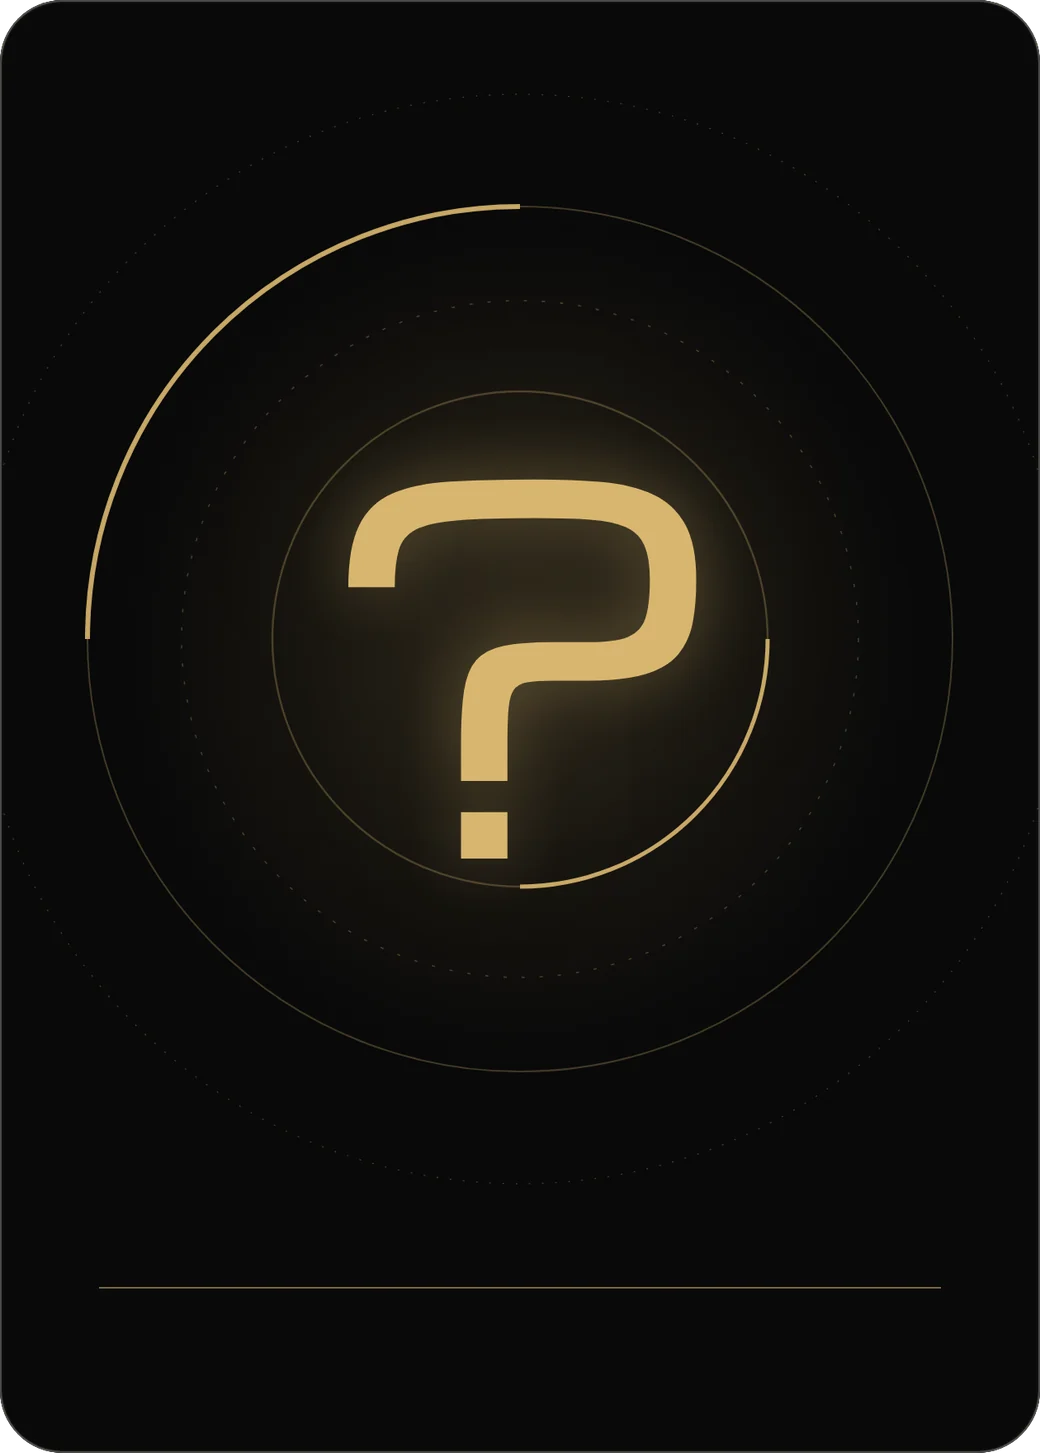
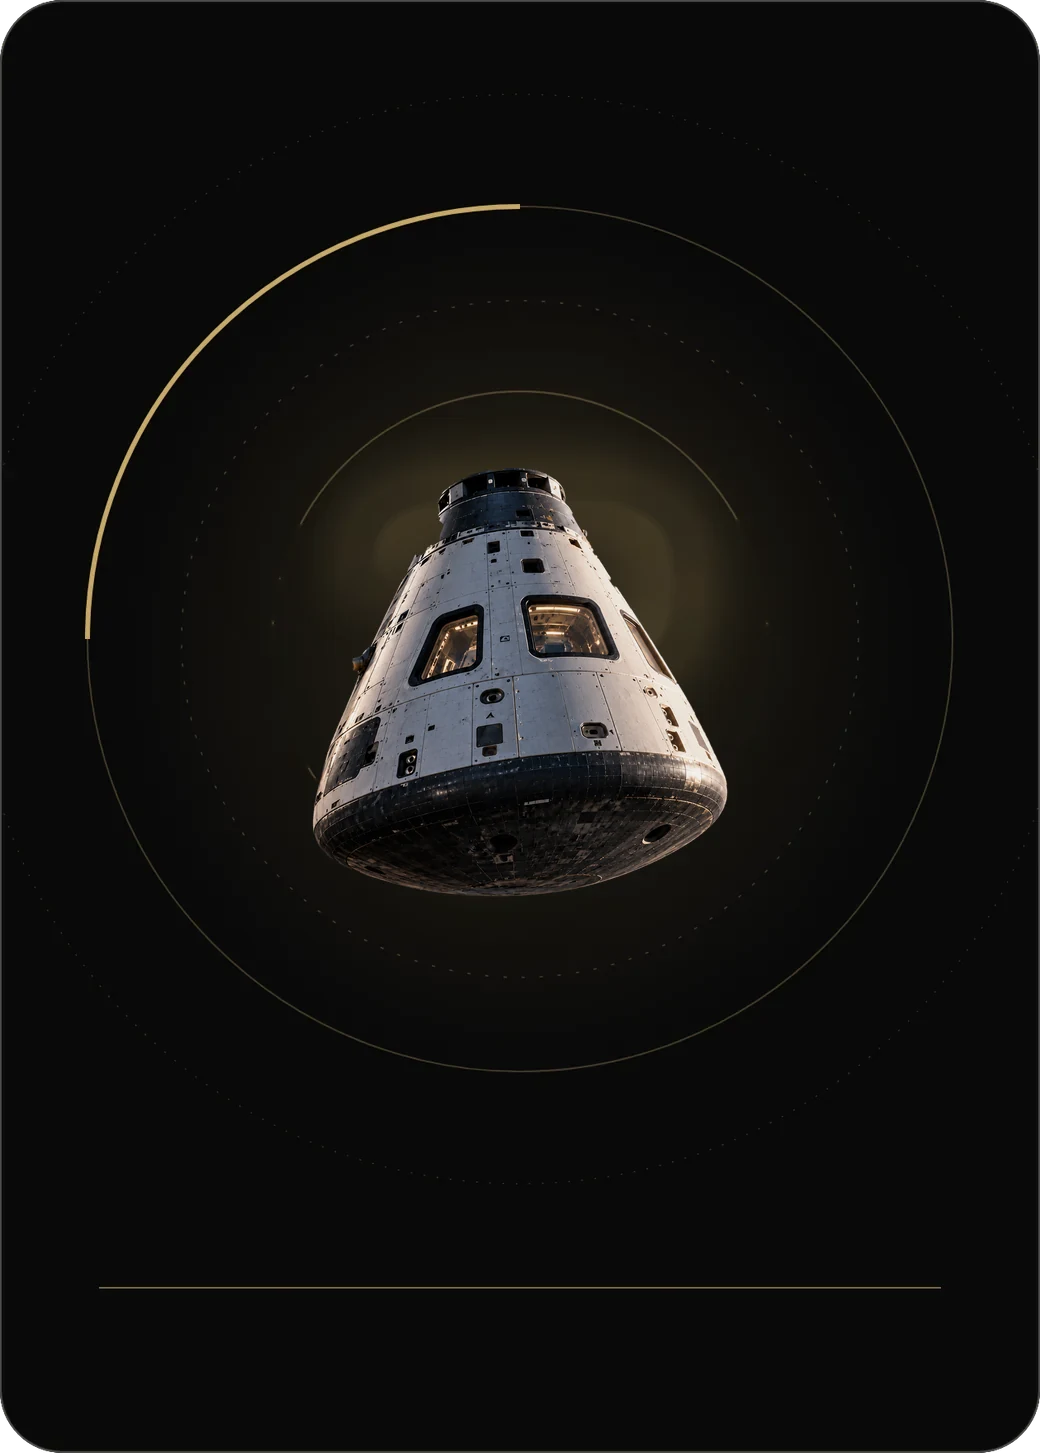
feat(stellar): a return capsule comes out of the star and splits open; no question mark, no blades
- The reveal's pod is now a cut-out return capsule (public/cards/capsule.webp): it leaves the core, a seam glows along the heat-shield rim, the body lifts away and the shield drops as the card comes out; the glow follows the cut
- The capsule sheet shows the same capsule lit in the tier's colour in place of the face-down card and the two energy blades
- The face-down card's question mark is replaced by the capsule (sealed.webp?v=capsule1)

Claude-Session: https://claude.ai/code/session_015vgwBKgGvCofmiSwVtod7G

Changed region(s): [[0.2769, 0.3097, 0.7385, 0.6194]]

diff --git a/src/styles/stellar-supernova.css b/src/styles/stellar-supernova.css
@@ -144,40 +144,38 @@
    and the card comes out of it. The engine drives the custom properties. ── */
 .sn-cap {
   --cs: 0.06; --cz: 0deg; --cx: 0px; --cr: 0; --co: 0; --cf: 0; --ch: 0.4;
-  position: absolute; left: 50%; top: 50%; width: 54%; aspect-ratio: 100 / 160; z-index: 0;
-  max-width: 190px; opacity: 0; pointer-events: none;
+  position: absolute; left: 50%; top: 50%; width: 72%; aspect-ratio: 695 / 720; z-index: 0;
+  max-width: 300px; opacity: 0; pointer-events: none;
   translate: calc(-50% + var(--cx)) -50%; transform: scale(var(--cs)) rotate(var(--cz)); will-change: transform, opacity;
 }
 .sn-cap__glow {
-  position: absolute; inset: -55% -80%; border-radius: 50%;
+  position: absolute; inset: -40% -55%; border-radius: 50%;
   background: radial-gradient(closest-side, color-mix(in srgb, var(--sn-tone) 55%, #fff4e0), color-mix(in srgb, var(--sn-tone) 30%, transparent) 38%, transparent 72%);
-  opacity: calc(var(--ch) * 0.55 + var(--co) * (1 - var(--cf)) * 0.9); filter: blur(6px);
+  opacity: calc(var(--ch) * 0.45 + var(--co) * (1 - var(--cf)) * 0.9); filter: blur(6px);
 }
-.sn-cap__half { position: absolute; inset: 0; will-change: transform; }
-.sn-cap__half--top { clip-path: inset(-2% -2% 50% -2%); transform: translateY(calc(var(--co) * -62%)) translateX(calc(var(--co) * -14%)) rotate(calc(var(--co) * -32deg)); }
-.sn-cap__half--bot { clip-path: inset(50% -2% -2% -2%); transform: translateY(calc(var(--co) * 58%)) translateX(calc(var(--co) * 12%)) rotate(calc(var(--co) * 24deg)); }
-.sn-cap__shell {
-  position: absolute; inset: 0; border-radius: 999px; overflow: hidden;
-  background:
-    /* the seam ring, lit from inside */
-    linear-gradient(180deg, transparent 47.4%, color-mix(in srgb, var(--sn-tone) 60%, #fff) 48.8%, #fff 50%, color-mix(in srgb, var(--sn-tone) 60%, #fff) 51.2%, transparent 52.6%),
-    /* machined bands near each end */
-    linear-gradient(180deg, transparent 18%, #ffffff26 18.5%, #00000080 19.3%, transparent 20%, transparent 80%, #00000080 80.7%, #ffffff26 81.5%, transparent 82%),
-    /* the ends rounding away from the light */
-    radial-gradient(70% 22% at 50% 4%, #ffffff30, transparent 70%),
-    radial-gradient(80% 26% at 50% 100%, #000000b0, transparent 75%),
-    /* a polished cylinder: dark limbs, a hot streak, a soft second light from the core */
-    linear-gradient(90deg, #030305 0%, #1d1d23 12%, #4c4c56 24%, #e9e7ef 29%, #6a6a75 33%, #2a2a31 46%, #17171c 64%, color-mix(in srgb, var(--sn-tone) 30%, #2a2a31) 84%, color-mix(in srgb, var(--sn-tone) 45%, #444) 90%, #050507 100%);
-  box-shadow:
-    inset 0 0 0 1.5px color-mix(in srgb, var(--sn-tone) 55%, #ffffff50),
-    inset 0 0 22px color-mix(in srgb, var(--sn-tone) calc(var(--ch) * 45%), transparent),
-    0 0 calc(12px + var(--ch) * 30px) color-mix(in srgb, var(--sn-tone) 60%, transparent);
+.sn-cap__half {
+  position: absolute; inset: 0; will-change: transform;
+  /* Lit by the star behind it: a rim in the tier's colour, brighter as it cracks. On the half, so the glow follows the cut. */
+  filter: drop-shadow(0 0 calc(4px + var(--ch) * 14px) color-mix(in srgb, var(--sn-tone) 70%, transparent));
 }
-/* The lens on the seam: the pod's eye, burning brighter as it cracks. */
-.sn-cap__half--top .sn-cap__shell::after {
-  content: ''; position: absolute; left: 50%; top: 50%; width: 22%; aspect-ratio: 1; translate: -50% -50%; border-radius: 50%;
-  background: radial-gradient(circle, #fff 0 18%, color-mix(in srgb, var(--sn-tone) 70%, #fff) 30%, var(--sn-tone) 52%, #050507 72%);
-  box-shadow: 0 0 0 2px #0a0a0d, 0 0 0 3.5px color-mix(in srgb, var(--sn-tone) 60%, #fff), 0 0 calc(10px + var(--ch) * 26px) var(--sn-tone);
+/* The body lifts away up and to the left; the heat shield falls the other way. */
+.sn-cap__half--top .sn-cap__img {
+  clip-path: polygon(-5% -5%, 105% -5%, 105% 75%, 100% 75%, 87.5% 71.3%, 75% 68.8%, 62.5% 67.5%, 50% 67.2%, 37.5% 68.2%, 25% 70.3%, 12.5% 73.6%, 0 78%, -5% 78%);
+}
+.sn-cap__half--top {
+  transform-origin: 50% 70%;
+  transform: translate(calc(var(--co) * -16%), calc(var(--co) * -58%)) rotate(calc(var(--co) * -22deg));
+}
+.sn-cap__half--bot .sn-cap__img {
+  clip-path: polygon(-5% 78%, 0 78%, 12.5% 73.6%, 25% 70.3%, 37.5% 68.2%, 50% 67.2%, 62.5% 67.5%, 75% 68.8%, 87.5% 71.3%, 100% 75%, 105% 75%, 105% 105%, -5% 105%);
+}
+.sn-cap__half--bot {
+  transform-origin: 50% 70%;
+  transform: translate(calc(var(--co) * 14%), calc(var(--co) * 62%)) rotate(calc(var(--co) * 16deg));
+}
+.sn-cap__img {
+  display: block; width: 100%; height: 100%; object-fit: contain;
+  filter: brightness(calc(0.85 + var(--ch) * 0.25));
 }
 .sn-cap__cracks { position: absolute; inset: 0; width: 100%; height: 100%; overflow: visible; }
 .sn-cap__cracks path {
@@ -186,7 +184,7 @@
   filter: drop-shadow(0 0 3px var(--sn-tone)) drop-shadow(0 0 8px var(--sn-tone));
 }
 .sn-cap__beam {
-  position: absolute; left: -90%; right: -90%; top: 50%; height: 34%; translate: 0 -50%; border-radius: 50%;
+  position: absolute; left: -90%; right: -90%; top: 69%; height: 34%; translate: 0 -50%; border-radius: 50%;
   background: radial-gradient(closest-side, #fffaf0, color-mix(in srgb, var(--sn-tone) 60%, #fff) 35%, transparent 75%);
   transform: scaleY(calc(0.05 + var(--co) * 1.6)) scaleX(calc(0.6 + var(--co) * 0.6)); opacity: calc(min(1, var(--co) * 4) * (1 - var(--cf)));
   mix-blend-mode: screen; filter: blur(2px);

diff --git a/src/styles/stellar-theme.css b/src/styles/stellar-theme.css
@@ -881,50 +881,23 @@ html:has(.stellar) #stellar-main { padding-top: 0; padding-bottom: 0; }
 @media (max-width: 959px) { .sd-cardhero__plate { overflow-x: clip; } }
 
 /* ── A sealed capsule ─────────────────────────────────────────── */
-/* The card face down, two energy blades lit in an X behind it in the tier's colour:
-   --tier is the blade, white is its core. The blades light from the hilt up, one
-   after the other, then hum. */
+/* A return capsule, lit from behind in the tier's colour; it arrives, then drifts. */
 .sd-tier__capsule { --h: 140px; position: relative; display: grid; place-items: center; height: var(--h); width: calc(var(--h) * 1.3); flex: none; }
-.sd-tier__sealed {
-  position: relative; z-index: 2; display: block; height: calc(var(--h) * 0.84); width: calc(var(--h) * 0.84 * 520 / 726); max-width: none; border-radius: 4.76% / 3.41%;
-  box-shadow: 0 18px 40px rgba(0, 0, 0, 0.7), 0 0 0 1px rgba(255, 240, 210, 0.12), 0 0 46px -10px color-mix(in srgb, var(--tier) 70%, transparent);
+.sd-tier__glow {
+  position: absolute; inset: 4% 8%; border-radius: 50%;
+  background: radial-gradient(closest-side, color-mix(in srgb, var(--tier) 55%, #fff4e0), color-mix(in srgb, var(--tier) 28%, transparent) 45%, transparent 75%);
+  opacity: 0.7; filter: blur(10px);
 }
-.sd-tier__saber {
-  position: absolute; z-index: 1; left: 50%; bottom: calc(var(--h) * 0.02); width: calc(var(--h) * 0.045); height: calc(var(--h) * 1.05);
-  margin-left: calc(var(--h) * -0.025); transform-origin: 50% 100%;
-}
-.sd-tier__saber--l { rotate: -42deg; }
-.sd-tier__saber--r { rotate: 42deg; }
-.sd-tier__blade {
-  position: absolute; left: 12%; right: 12%; top: 0; bottom: 22%; border-radius: 999px 999px 3px 3px;
-  background: linear-gradient(90deg, color-mix(in srgb, var(--tier) 70%, #fff), #fff 30% 70%, color-mix(in srgb, var(--tier) 70%, #fff));
-  box-shadow:
-    0 0 4px 1px #fff,
-    0 0 10px 3px var(--tier),
-    0 0 24px 8px color-mix(in srgb, var(--tier) 75%, transparent),
-    0 0 60px 18px color-mix(in srgb, var(--tier) 35%, transparent);
-  transform-origin: 50% 100%;
-}
-.sd-tier__hilt {
-  position: absolute; left: -12%; right: -12%; bottom: 0; height: 23%; border-radius: 3px 3px 5px 5px;
-  background:
-    linear-gradient(180deg, #e9e6df 0 9%, #3c3c3c 9% 13%, transparent 13%),
-    repeating-linear-gradient(180deg, #151515 0 3px, #575757 3px 5px) 0 34% / 100% 40% no-repeat,
-    linear-gradient(90deg, #6d6d6d, #d8d8d8 35%, #8a8a8a 60%, #3a3a3a);
-  box-shadow: inset 0 -3px 0 #222, 0 4px 10px rgba(0, 0, 0, 0.6);
-}
-.sd-tier__hilt::after {
-  content: ''; position: absolute; left: 50%; top: 18%; width: 34%; aspect-ratio: 1; translate: -50% 0; border-radius: 2px;
-  background: color-mix(in srgb, var(--tier) 60%, #c0392b); box-shadow: 0 0 4px var(--tier);
+.sd-tier__pod {
+  position: relative; display: block; height: calc(var(--h) * 0.92); width: auto; max-width: none;
+  filter: drop-shadow(0 18px 26px rgba(0, 0, 0, 0.7)) drop-shadow(0 0 14px color-mix(in srgb, var(--tier) 55%, transparent));
 }
 @media (prefers-reduced-motion: no-preference) {
-  .sd-tier__blade { animation: sd-ignite 520ms cubic-bezier(0.2, 0.9, 0.25, 1) both, sd-hum 2.6s ease-in-out 700ms infinite; }
-  .sd-tier__saber--r .sd-tier__blade { animation-delay: 180ms, 880ms; }
-  .sd-tier__sealed { animation: sd-tier-arrive 700ms var(--sd-ease) both; }
+  .sd-tier__pod { animation: sd-tier-arrive 700ms var(--sd-ease) both; }
+  .sd-tier__glow { animation: sd-tier-breathe 4.8s ease-in-out infinite; }
 }
-@keyframes sd-ignite { from { transform: scaleY(0); opacity: 0.4; } 60% { opacity: 1; } to { transform: scaleY(1); } }
-@keyframes sd-hum { 0%, 100% { opacity: 1; } 45% { opacity: 0.88; } 50% { opacity: 0.97; } 53% { opacity: 0.86; } }
-@keyframes sd-tier-arrive { from { opacity: 0; transform: translateY(10px) scale(0.96); } }
+@keyframes sd-tier-arrive { from { opacity: 0; transform: translateY(14px) scale(0.92) rotate(-6deg); } }
+@keyframes sd-tier-breathe { 0%, 100% { opacity: 0.55; transform: scale(0.96); } 50% { opacity: 0.85; transform: scale(1.04); } }
 
 /* Behind it, the jump to light speed: thin streaks rushing out from the centre. */
 .sd-hyper {

diff --git a/src/components/stellar/StellarReveal.tsx b/src/components/stellar/StellarReveal.tsx
@@ -59,6 +59,9 @@ function SealedBack({ designation, u }: { designation: string; u: string }) {
   return plate ? <CardBack plate={plate} sealed priority u={u} /> : null;
 }
 
+/** The capsule out of the star: a cut-out return capsule; it splits at the heat-shield rim. */
+const CAPSULE_SRC = '/cards/capsule.webp?v=1';
+
 /** The capsule's fragments when it cracks: how far each flies (px), its spin and its size. */
 const SHARDS: [number, number, number, number][] = Array.from({ length: 14 }, (_, i) => {
   const a = (i / 14) * Math.PI * 2 + (i % 2 ? 0.2 : -0.15);
@@ -366,14 +369,16 @@ export default function StellarReveal({
           <div className="sn-cap" data-sn="cap" aria-hidden="true">
             <div className="sn-cap__glow" />
             <div className="sn-cap__beam" />
-            <div className="sn-cap__half sn-cap__half--top"><div className="sn-cap__shell" /></div>
-            <div className="sn-cap__half sn-cap__half--bot"><div className="sn-cap__shell" /></div>
-            <svg className="sn-cap__cracks" viewBox="0 0 100 160" preserveAspectRatio="none">
-              <path pathLength={1} d="M50 80 L44 70 L47 58 L40 46 L43 33" />
-              <path pathLength={1} d="M50 80 L58 72 L55 61 L63 52 L60 40 L66 30" />
-              <path pathLength={1} d="M50 80 L41 89 L45 101 L38 113" />
-              <path pathLength={1} d="M50 80 L59 90 L56 104 L64 118 L61 128" />
-              <path pathLength={1} d="M4 80 L22 78 L34 82 L50 80 L66 78 L80 82 L96 80" />
+            <div className="sn-cap__half sn-cap__half--top">
+              <img className="sn-cap__img" src={CAPSULE_SRC} alt="" width={695} height={720} decoding="async" />
+            </div>
+            <div className="sn-cap__half sn-cap__half--bot">
+              <img className="sn-cap__img" src={CAPSULE_SRC} alt="" width={695} height={720} decoding="async" />
+            </div>
+            <svg className="sn-cap__cracks" viewBox="0 0 100 100" preserveAspectRatio="none">
+              <path pathLength={1} d="M0 78 Q50 58 100 75" />
+              <path pathLength={1} d="M30 69.5 L27 60 L31 52" />
+              <path pathLength={1} d="M64 67.7 L68 59 L65 49" />
             </svg>
             {SHARDS.map((s, i) => <i key={i} className="sn-cap__shard" style={{ '--dx': `${s[0]}px`, '--dy': `${s[1]}px`, '--r': `${s[2]}deg`, '--w': `${s[3]}px` } as CSSProperties} />)}
           </div>

diff --git a/src/components/stellar/TierCapsule.tsx b/src/components/stellar/TierCapsule.tsx
@@ -1,26 +1,14 @@
 import type { Tier } from '@/lib/stellar/tiers';
 
-/** One energy blade on its hilt: the blade lights from the emitter up, in the tier's colour. */
-function Blade({ side }: { side: 'l' | 'r' }) {
-  return (
-    <span className={`sd-tier__saber sd-tier__saber--${side}`}>
-      <i className="sd-tier__blade" />
-      <i className="sd-tier__hilt" />
-    </span>
-  );
-}
-
 /**
- * The sealed capsule: the card face down, two blades lit in an X behind it, in
- * the colour of the class being opened. Keyed on the tier, so choosing another
- * one lights the blades again.
+ * The sealed capsule: a return capsule lit from behind in the colour of the
+ * class being opened. Keyed on the tier, so choosing another one brings it in again.
  */
 export default function TierCapsule({ tier }: { tier: Tier }) {
   return (
     <span key={tier.key} className="sd-tier__capsule" aria-hidden="true">
-      <Blade side="l" />
-      <Blade side="r" />
-      <img className="sd-tier__sealed" src="/cards/sealed.webp?v=odyssey1" alt="" width={520} height={726} decoding="async" />
+      <span className="sd-tier__glow" />
+      <img className="sd-tier__pod" src="/cards/capsule.webp?v=1" alt="" width={695} height={720} decoding="async" />
     </span>
   );
 }

diff --git a/src/test/stellar-reveal.test.ts b/src/test/stellar-reveal.test.ts
@@ -41,7 +41,7 @@ it('keeps the other cards of an older two-card capsule beside it', () => {
 it('comes out face down, with the sealed back', () => {
   const html = render([card('SATURN', 'epic', 0)]);
   expect(html).toContain('sn-face--back');
-  expect(html).toContain('/cards/sealed.webp?v=odyssey1');
+  expect(html).toContain('/cards/sealed.webp?v=capsule1');
 });
 
 it('shows a First Light card as the printed card, with its edition in plain text', () => {

diff --git a/src/components/stellar/card/CardBack.tsx b/src/components/stellar/card/CardBack.tsx
@@ -14,7 +14,7 @@ type Props = {
   u: string;
 };
 
-export const SEALED_SRC = '/cards/sealed.webp?v=odyssey1';
+export const SEALED_SRC = '/cards/sealed.webp?v=capsule1';
 
 function CardBack({ plate, edition, commitment, sealed = false, priority = false }: Props) {
   if (sealed) return (
